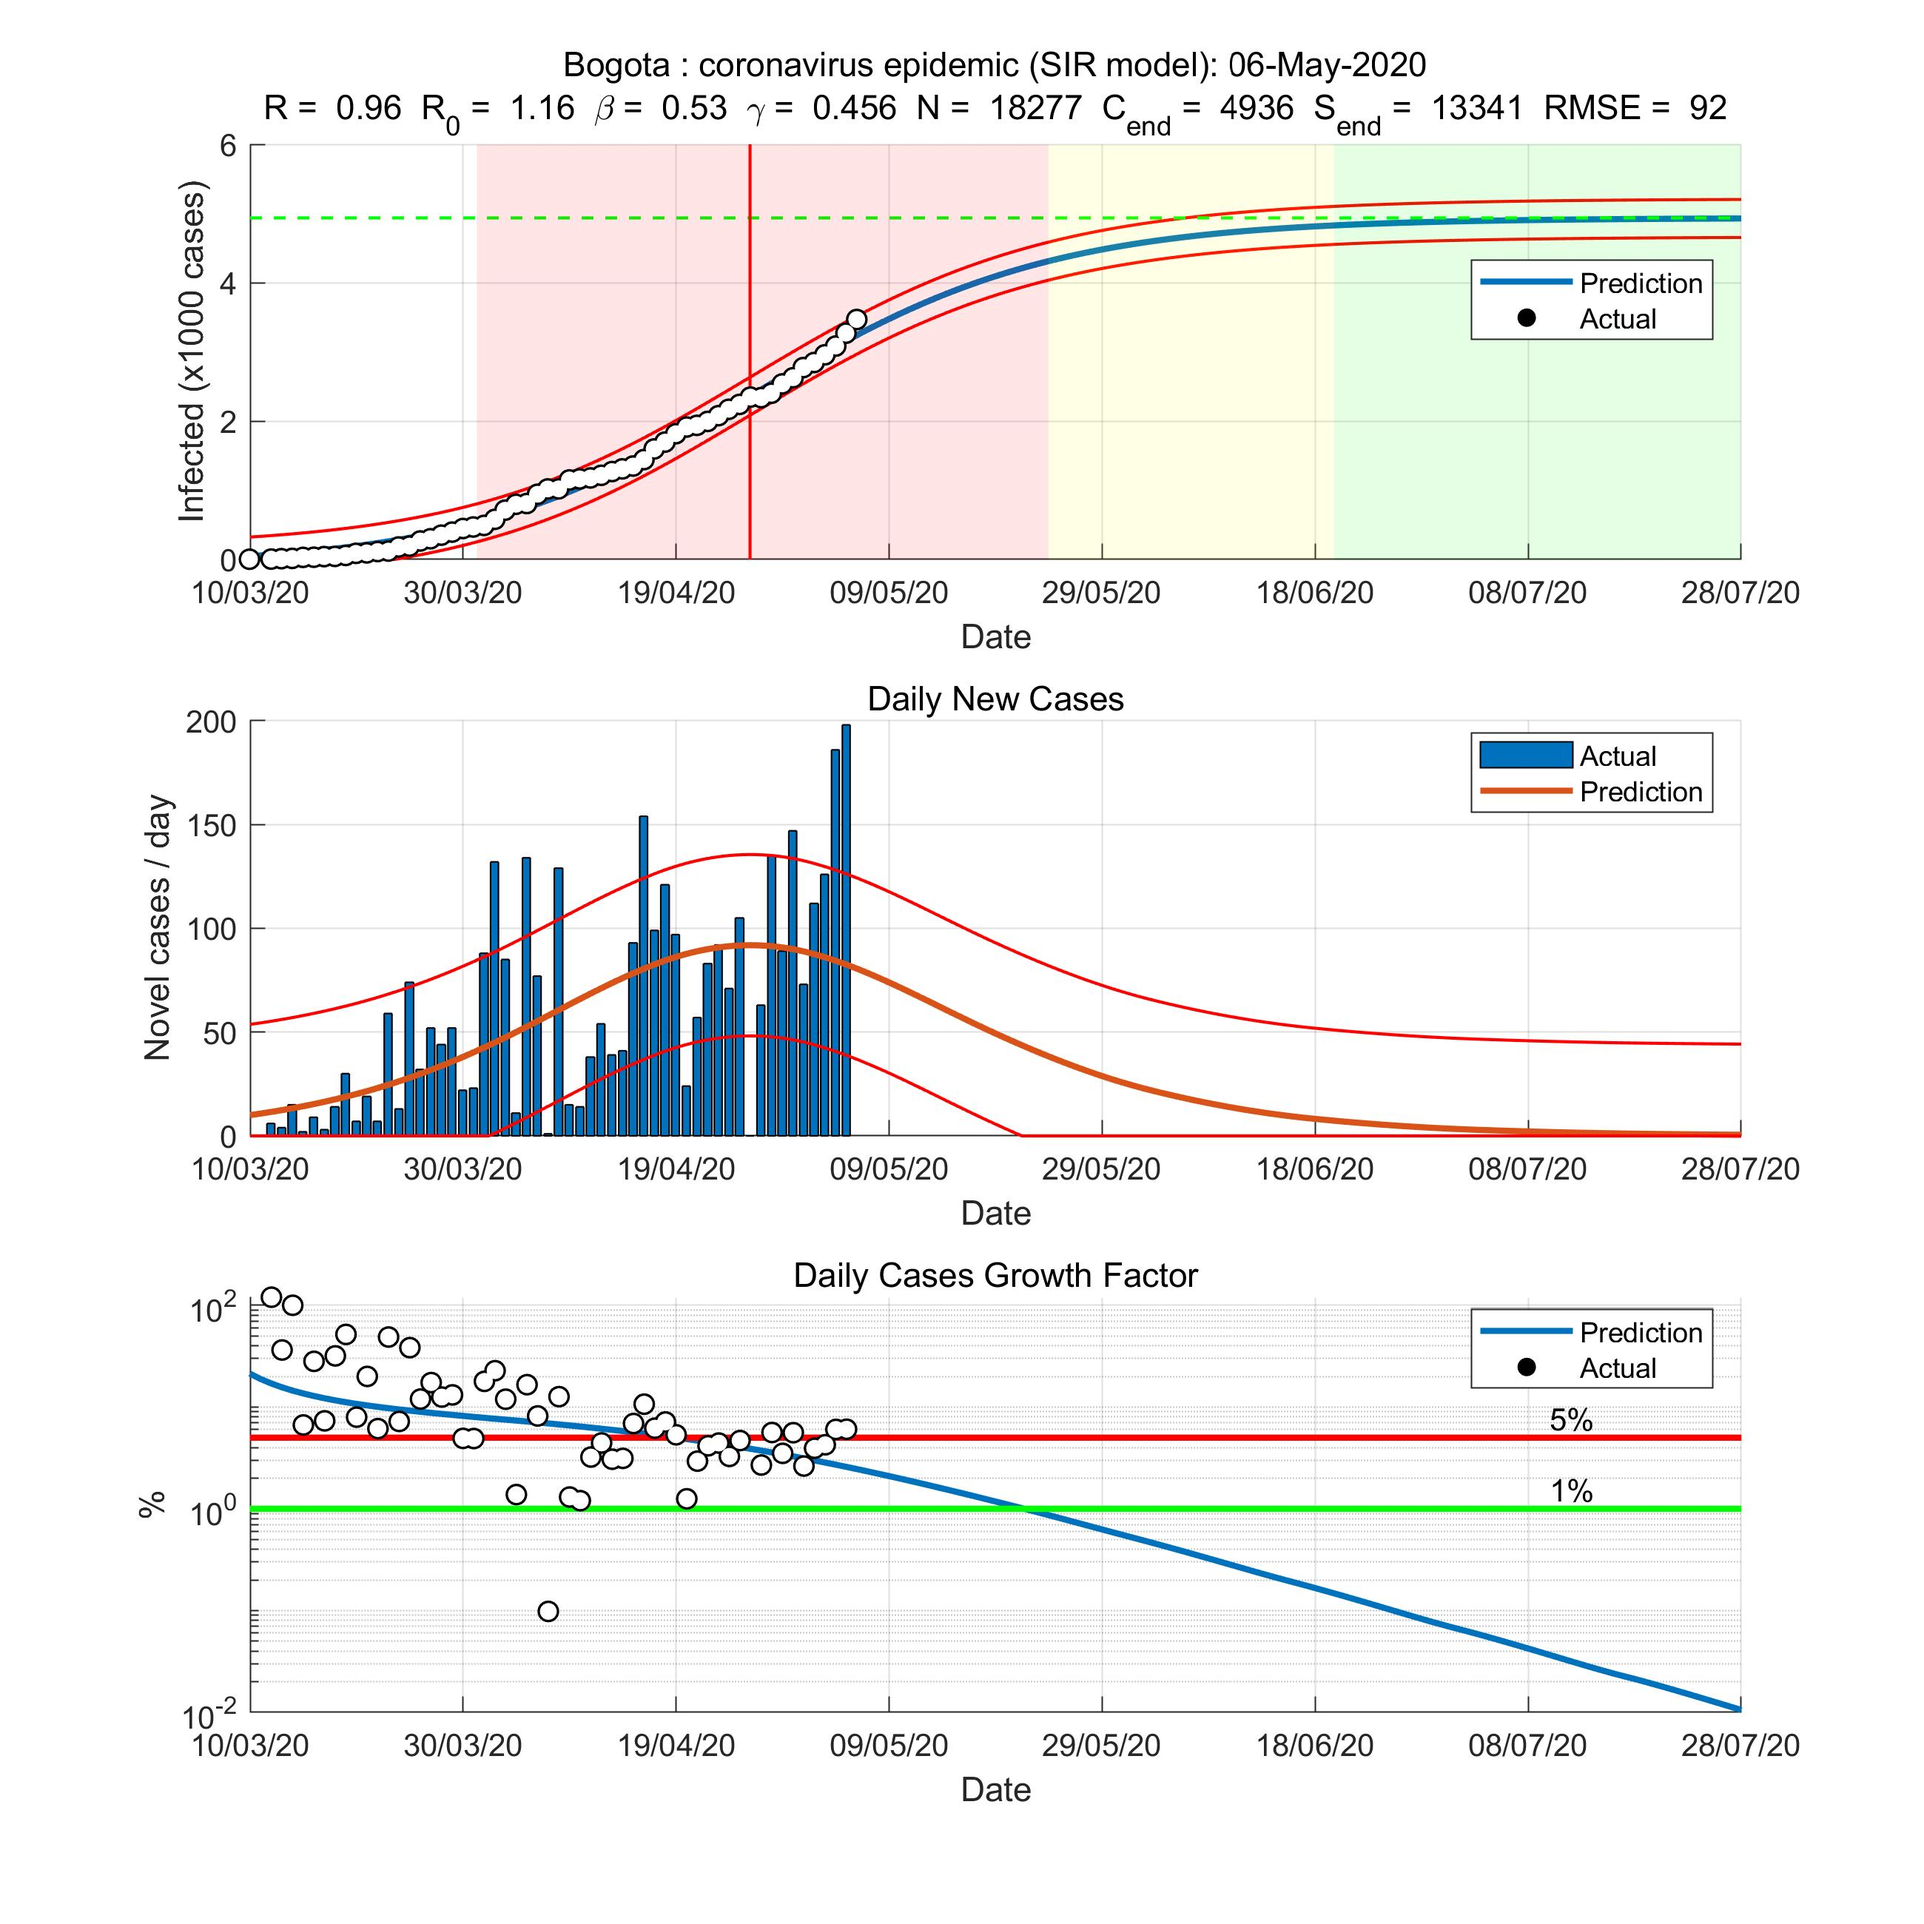
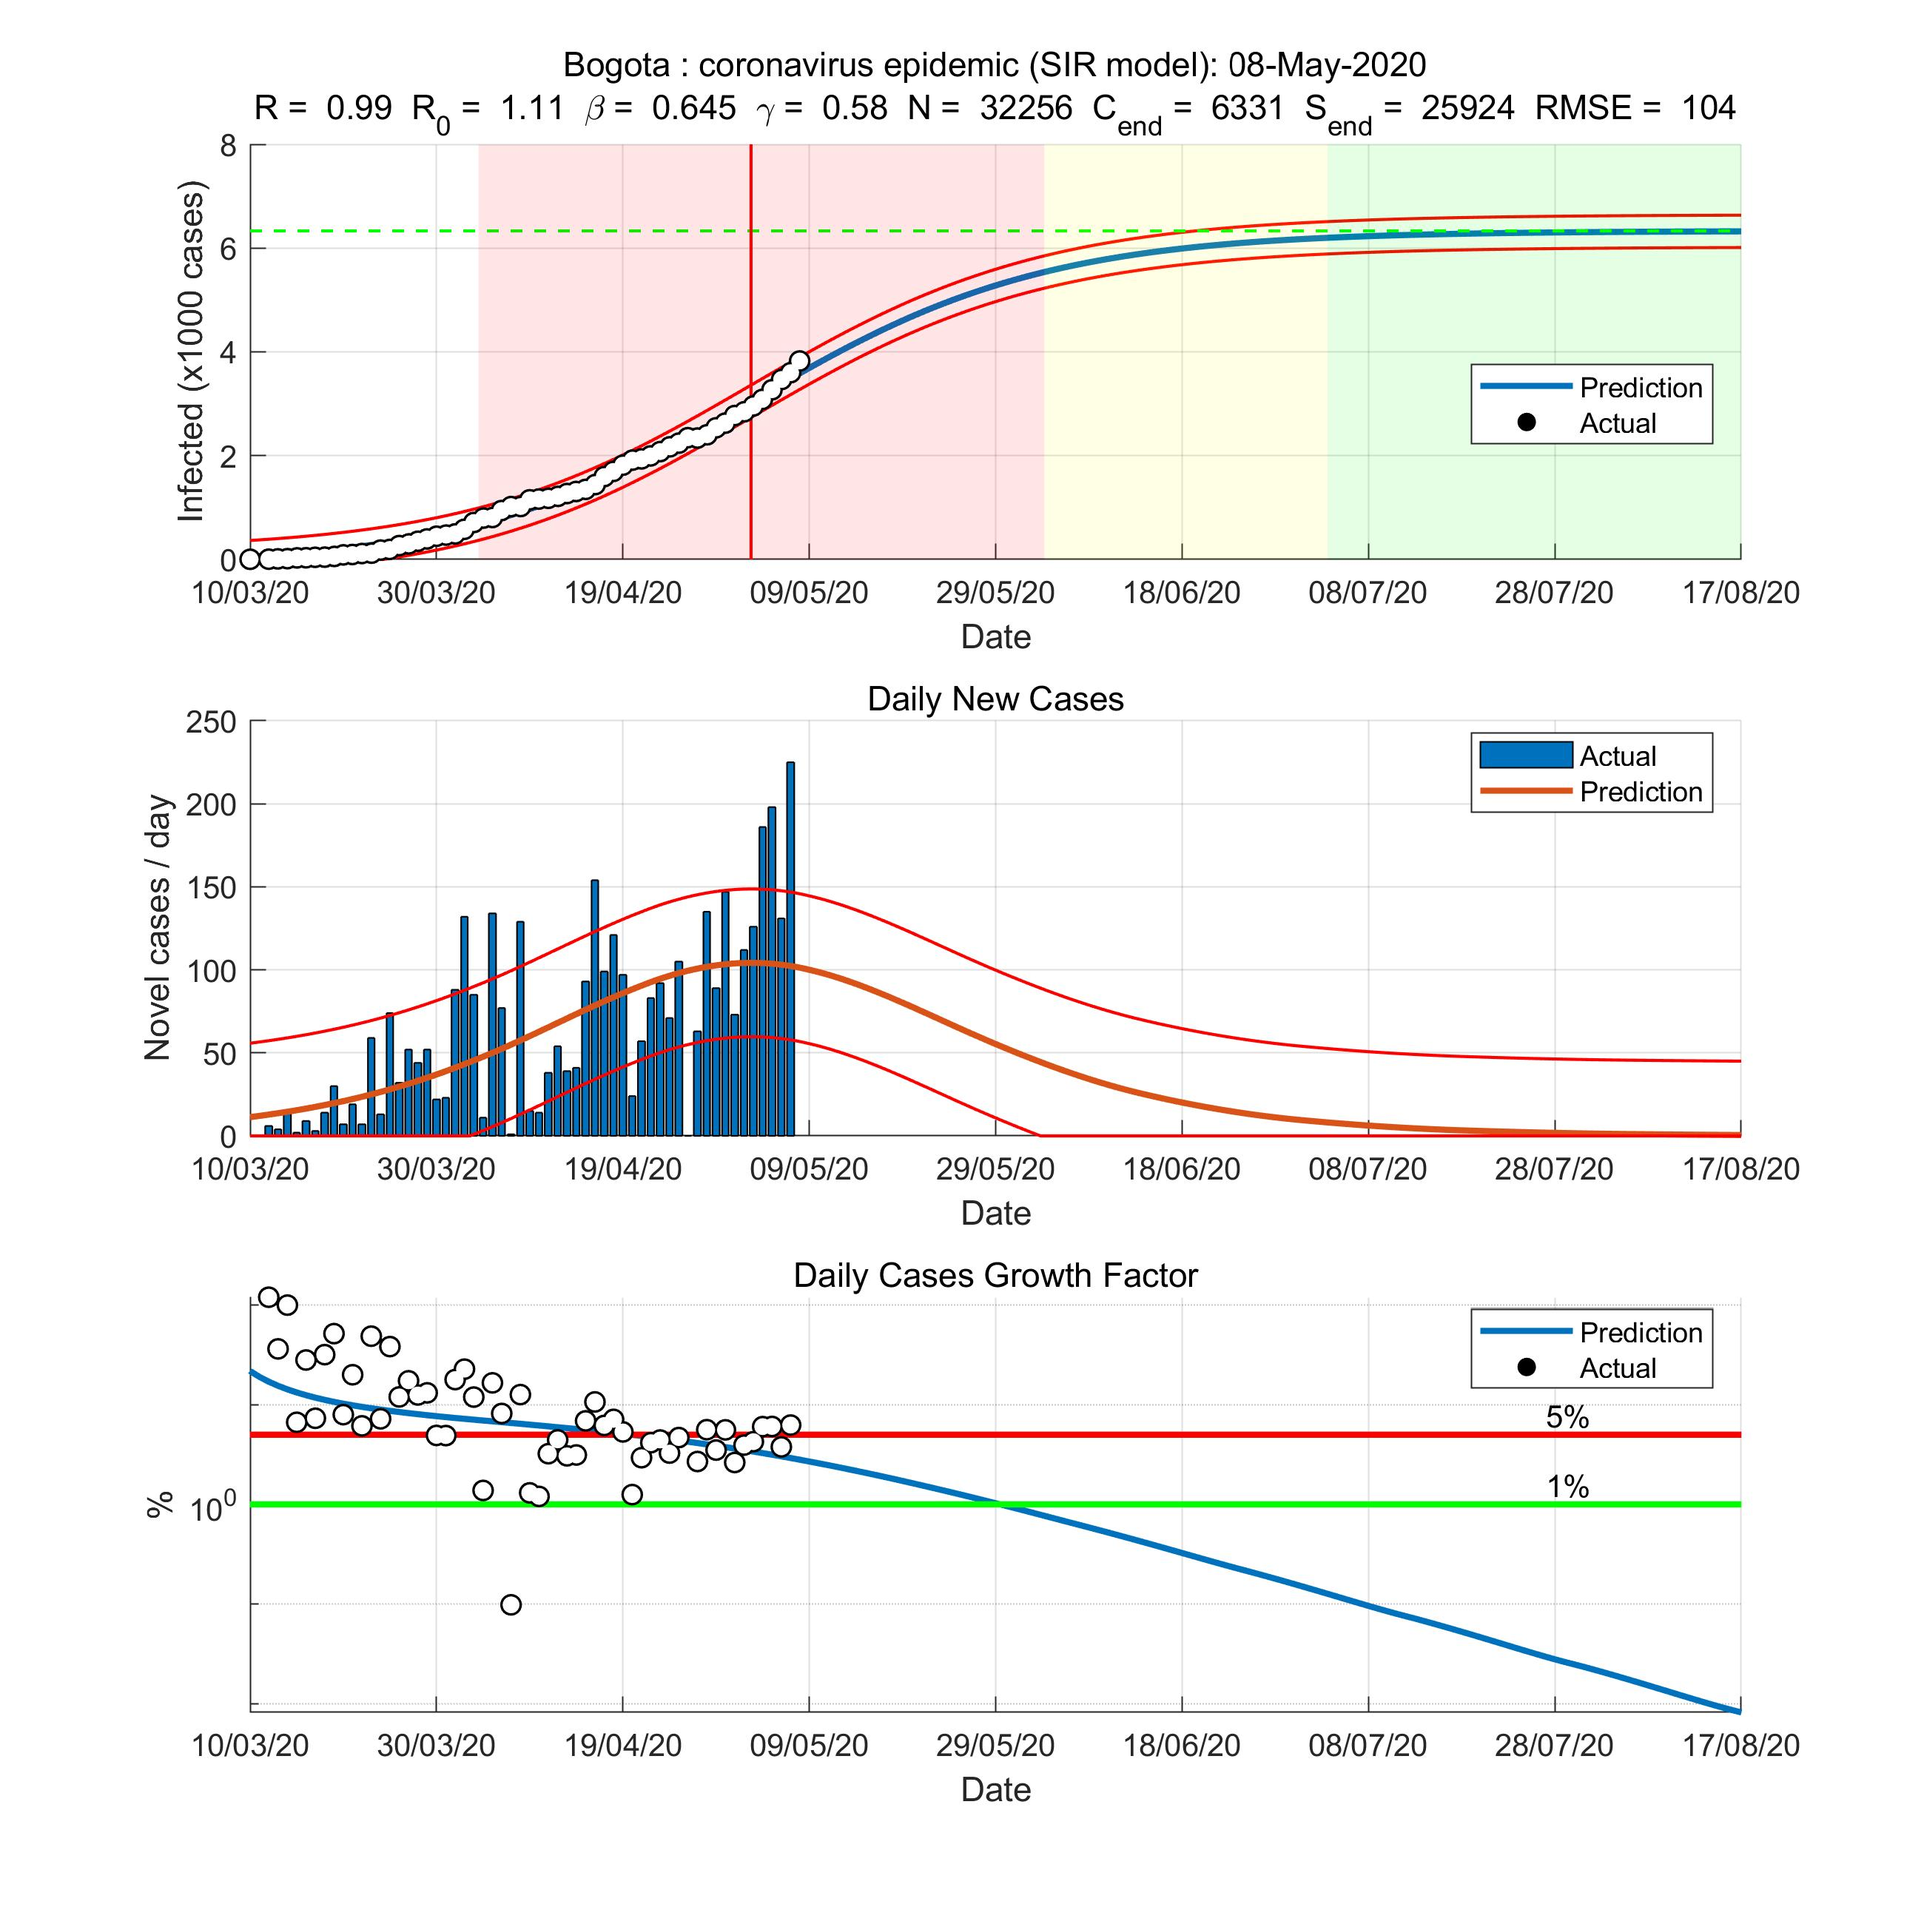
actual9demayo

diff --git a/runMe.m b/runMe.m
@@ -2,5 +2,5 @@ close all
 addpath('CV19')
 addpath('data')
 %w1 - weigth for values, w2 - weight for derivatives, prn - print results
-res = fitVirusCV19(@getDataMedellin,'prn','on','jpg','on','jpres','-r300');
+res = fitVirusCV19(@getDataBogota,'prn','on','jpg','on','jpres','-r300');
 

diff --git a/data/getDataBogota.m b/data/getDataBogota.m
@@ -66,6 +66,8 @@ NaN % 11-03
 3084	%	4 may
 3270	%	5 may
 3468	%	6 may
+3599	%	7
+3824	%	8
 
 %<-------------- add new data here
 ]';
